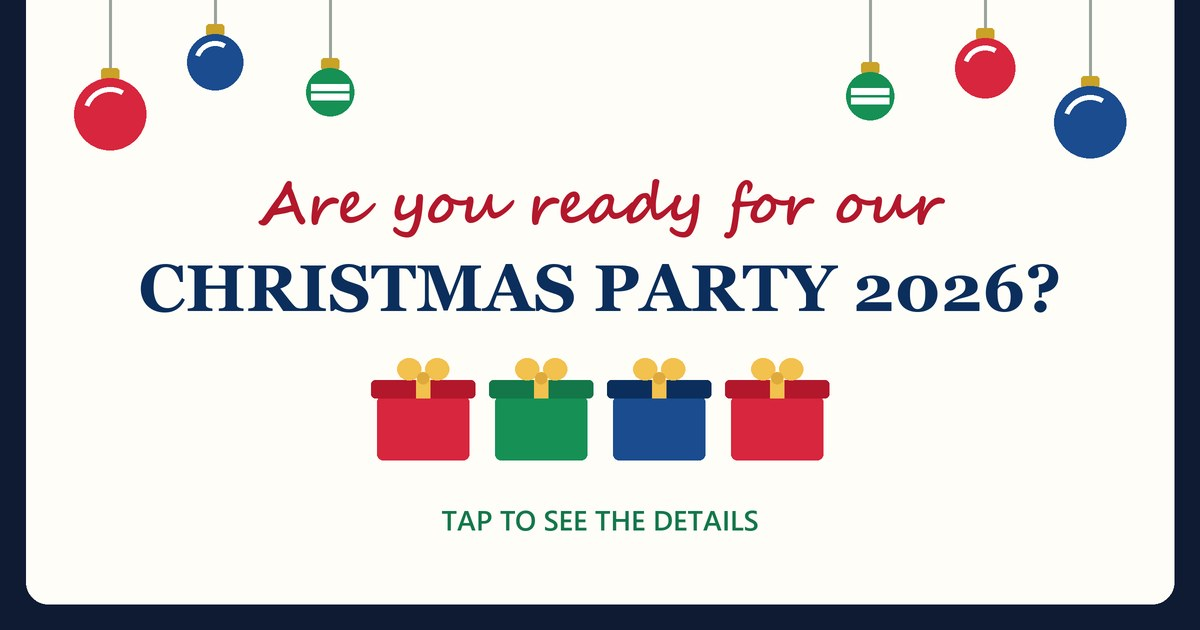
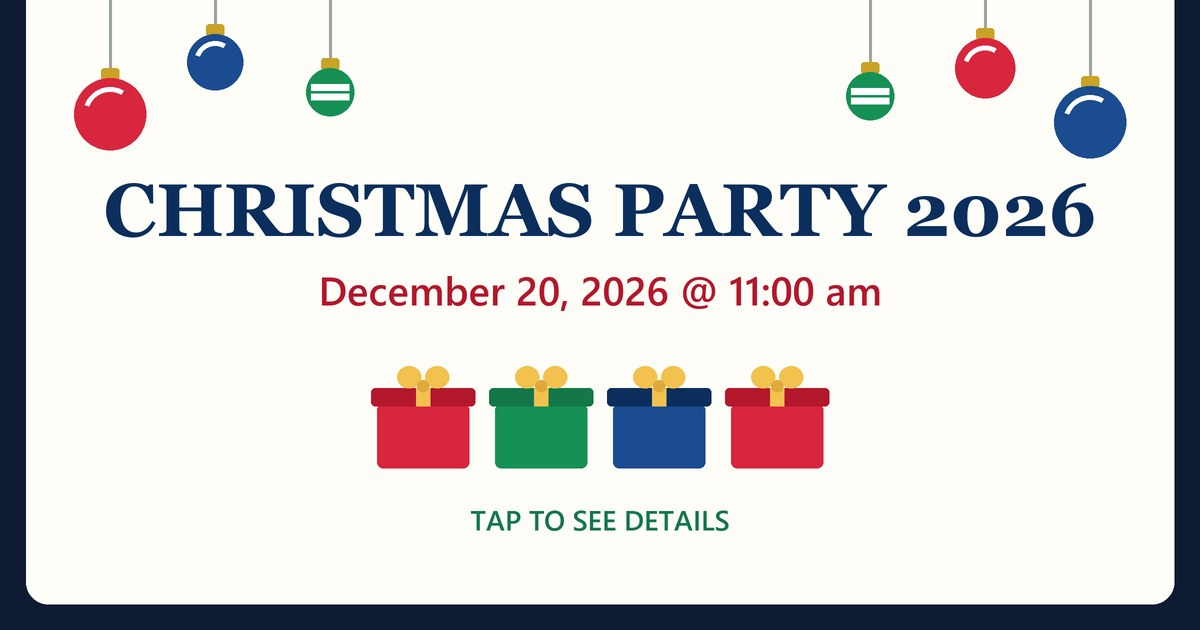
Christmas link preview: party name, date and time on the card; new preview text

diff --git a/christmas/index.html b/christmas/index.html
@@ -5,15 +5,15 @@
 <meta name="color-scheme" content="only light">
 <meta name="viewport" content="width=device-width, initial-scale=1, viewport-fit=cover">
 <title>Are you ready for our Christmas Party 2026?</title>
-<meta name="description" content="Tap to see the details: date, place, menu and program.">
+<meta name="description" content="Tap to see details, menu, and program.">
 <meta property="og:type" content="website">
 <meta property="og:url" content="https://silakph.github.io/invite/christmas/">
 <meta property="og:title" content="Are you ready for our Christmas Party 2026?">
-<meta property="og:description" content="Tap to see the details: date, place, menu and program.">
+<meta property="og:description" content="Tap to see details, menu, and program.">
 <meta property="og:image" content="https://silakph.github.io/invite/christmas/assets/share.jpg">
 <meta property="og:image:width" content="1200">
 <meta property="og:image:height" content="630">
-<meta property="og:image:alt" content="Christmas baubles and gift boxes: Are you ready for our Christmas Party 2026?">
+<meta property="og:image:alt" content="Christmas Party 2026, December 20, 2026 at 11:00 am">
 <meta name="twitter:card" content="summary_large_image">
 <meta name="theme-color" content="#0E1B33">
 <link rel="icon" href="assets/favicon.svg" type="image/svg+xml">
